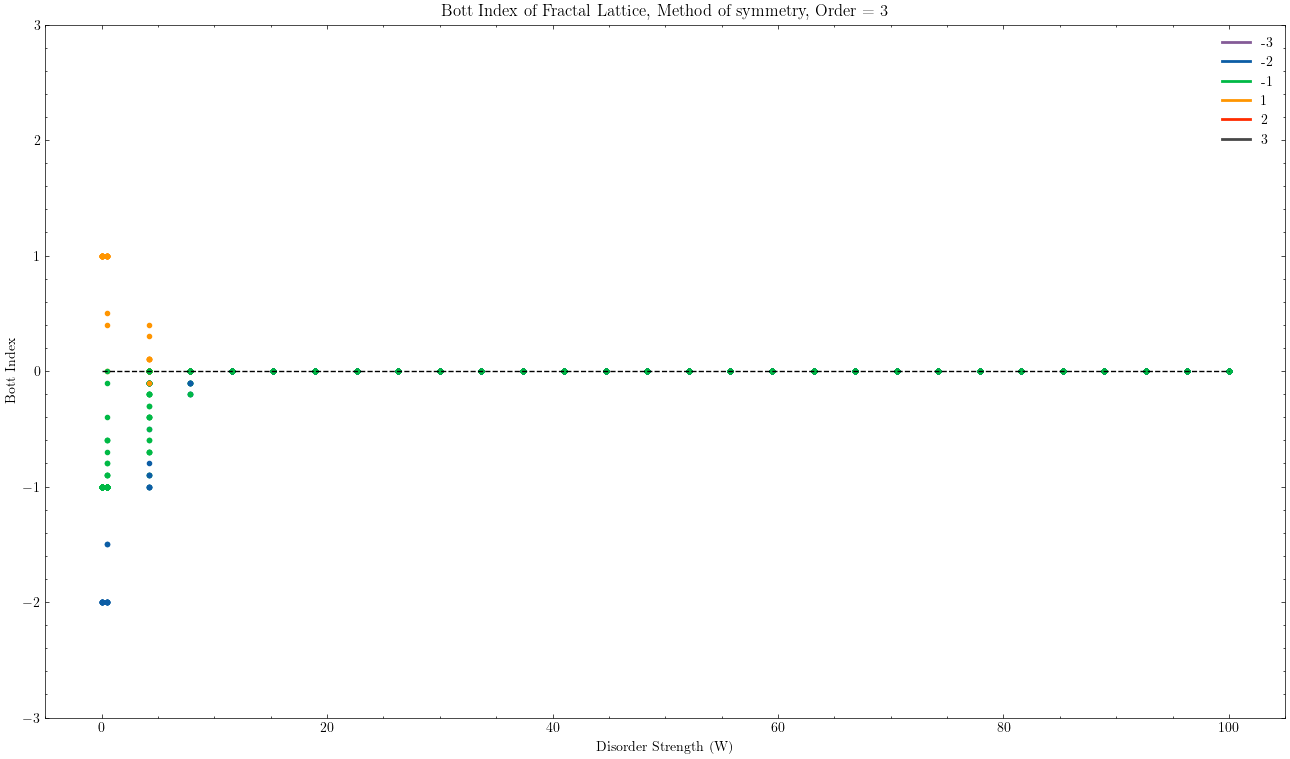
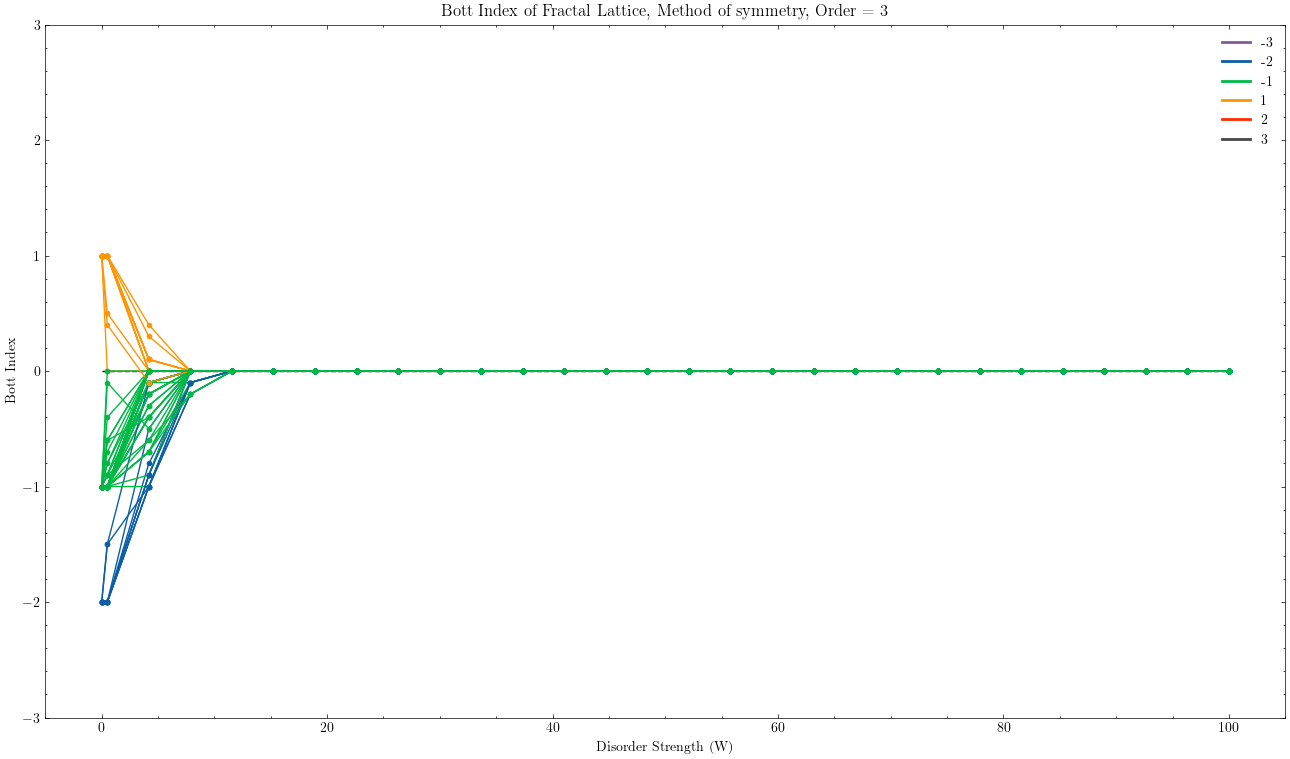
method to take at most five from each unique inital bott index in order to disorder them. improved handling of parameter read from .npz file.

Changed region(s): [[0.062, 0.3333, 0.186, 0.7273], [0.062, 0.7273, 0.093, 0.7879]]

diff --git a/Project_1/phase_diagram.py b/Project_1/phase_diagram.py
@@ -9,7 +9,7 @@ import os, sys
 
 # Check to use latex style as the workstation pc does not have latex installed; workstation pc is in python 3.9
 if sys.version_info[1] > 9:
-    import latex, scienceplots
+    import scienceplots
     plt.style.use(['science', 'pgf'])
 
 
@@ -49,7 +49,7 @@ def _read_npz_data(filename:str) -> 'tuple[np.ndarray, dict]':
     #if .npz file has parameters (second form)
     else:
         data = file_data['data']
-        parameters = file_data['parameters']
+        parameters = file_data['parameters'][()]
 
     return data, parameters
 
@@ -60,8 +60,6 @@ def plot_disorder(filename:str, doShow:bool, doSave:bool, title:str=None) -> Non
     """
     try:
         data, params = _read_npz_data(filename)
-        if params is not None:
-            params = params[()]
 
     except Exception as e:
         print(f"Error with {filename}: {e}")
@@ -104,10 +102,10 @@ def plot_disorder(filename:str, doShow:bool, doSave:bool, title:str=None) -> Non
                 if True:
                     if y[0] not in bott_vals:
                         print(f"Initial bott index is not in [-3, -2, -1, 1, 2, 3]. Value is {y[0]}")
-                        ax.scatter(x, y, c='black', marker='.')
+                        ax.plot(x, y, c='black', marker='.')
                     
                     try:
-                        ax.scatter(x, y, c=colors[int(y[0]+3)], marker='.')
+                        ax.plot(x, y, c=colors[int(y[0]+3)], marker='.')
 
                     except Exception as e:
                         print(f"Caught exception: {e}")
@@ -139,8 +137,6 @@ def plot_bott(filename:str, doShow:bool=True, doSave:bool=True, title:str=None) 
     #read array from file
     try:
         data, params = _read_npz_data(filename)
-        if params is not None:
-            params = params[()]
 
     except Exception as e:
         print(f"Error with {filename}: {e}")
@@ -197,8 +193,6 @@ def plot_bott_imshow(filename:str, doShow:bool=True, doSave:bool=True, title:str
     #read array from file
     try:
         data, params = _read_npz_data(filename)
-        if params is not None:
-            params = params[()]
 
     except Exception as e:
         print(f"Error with {filename}: {e}")
@@ -299,4 +293,4 @@ def main():
 
 
 if __name__ == "__main__":
-    main()
+    plot_all_npz()

diff --git a/Project_1/project_execute.py b/Project_1/project_execute.py
@@ -194,9 +194,16 @@ def _many_disorder(bott_arr:np.ndarray, method:str, order:int, pad_width:int, pb
 
     _init_environment(cores_per_job)
 
-    # Find only the columns where the Bott Index is nonzero.
-    mask = bott_arr[2, :] != 0
-    nonzero_bott_arr = bott_arr[:, mask]
+    # Separate into different arrays for each index
+    bott_separation = [bott_arr[:, mask] for mask in [bott_arr[2, :] == bott for bott in list(np.unique(bott_arr[2]))]]
+    bott_separation = [arr[:,5] for arr in bott_separation]
+    
+    # Take at most five entries from each unique intial Bott Index
+    nonzero_bott_arr = np.empty((3, 0))
+    for arr in bott_separation:
+        if arr.shape[1] > 0:
+            if arr[2,0] != 0:
+                nonzero_bott_arr = np.append(nonzero_bott_arr, arr, axis=1)
 
     # Provide statistic on nonzero Bott Index data
     num_lattices = M_values.size*B_tilde_values.size

diff --git a/Project_1/interpret_data.py b/Project_1/interpret_data.py
@@ -1,0 +1,18 @@
+import numpy as np
+
+from phase_diagram import _read_npz_data,plot_bott_imshow
+
+
+data, params = _read_npz_data("bott_2.npz")
+
+bott_separation = [data[:, mask] for mask in [data[2, :] == bott for bott in [-3, -2, -1, 0, 1, 2, 3]]]
+bott_separation = [arr[:, :5] for arr in bott_separation]
+
+nonzero_bott_arr = np.empty((3, 0))
+for arr in bott_separation:
+    if arr.shape[1] > 0:
+        if arr[2,0] != 0:
+            nonzero_bott_arr = np.append(nonzero_bott_arr, arr, axis=1)
+
+
+print(list(np.unique(data[2])))
